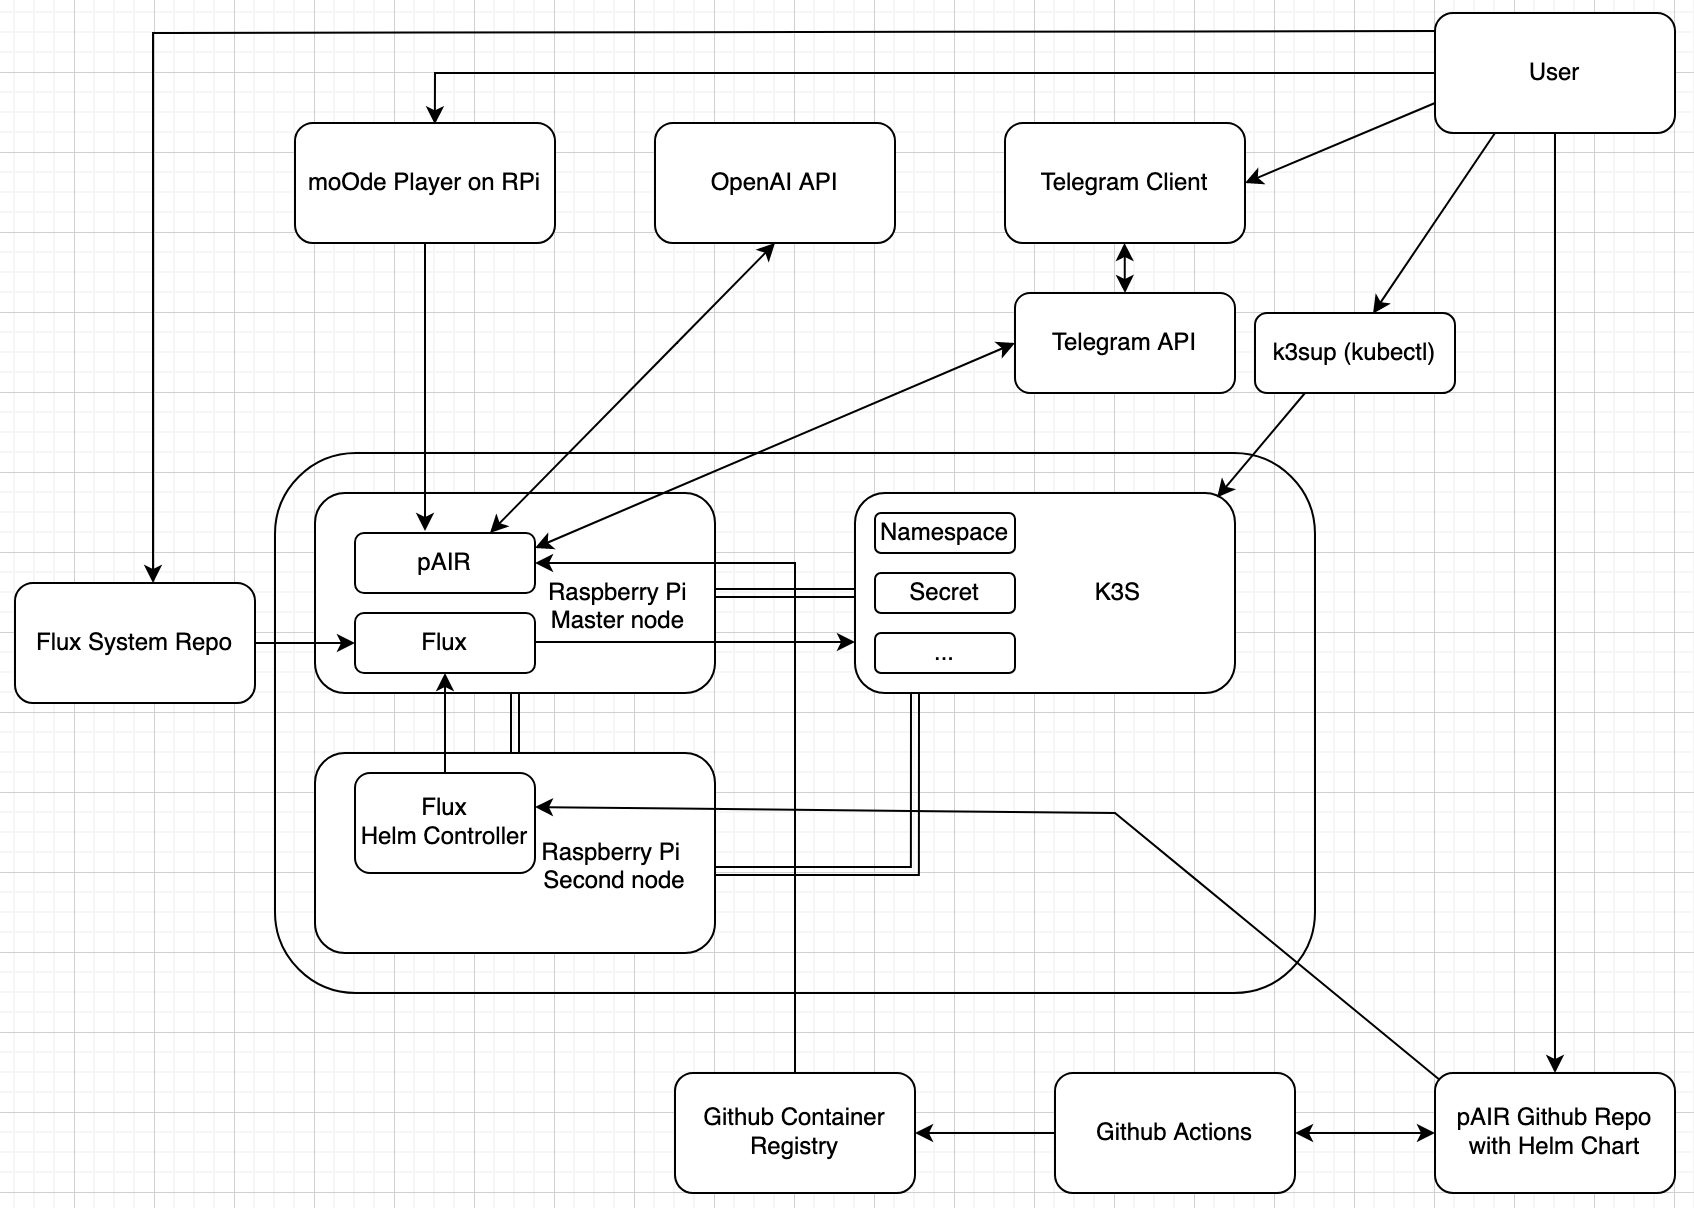
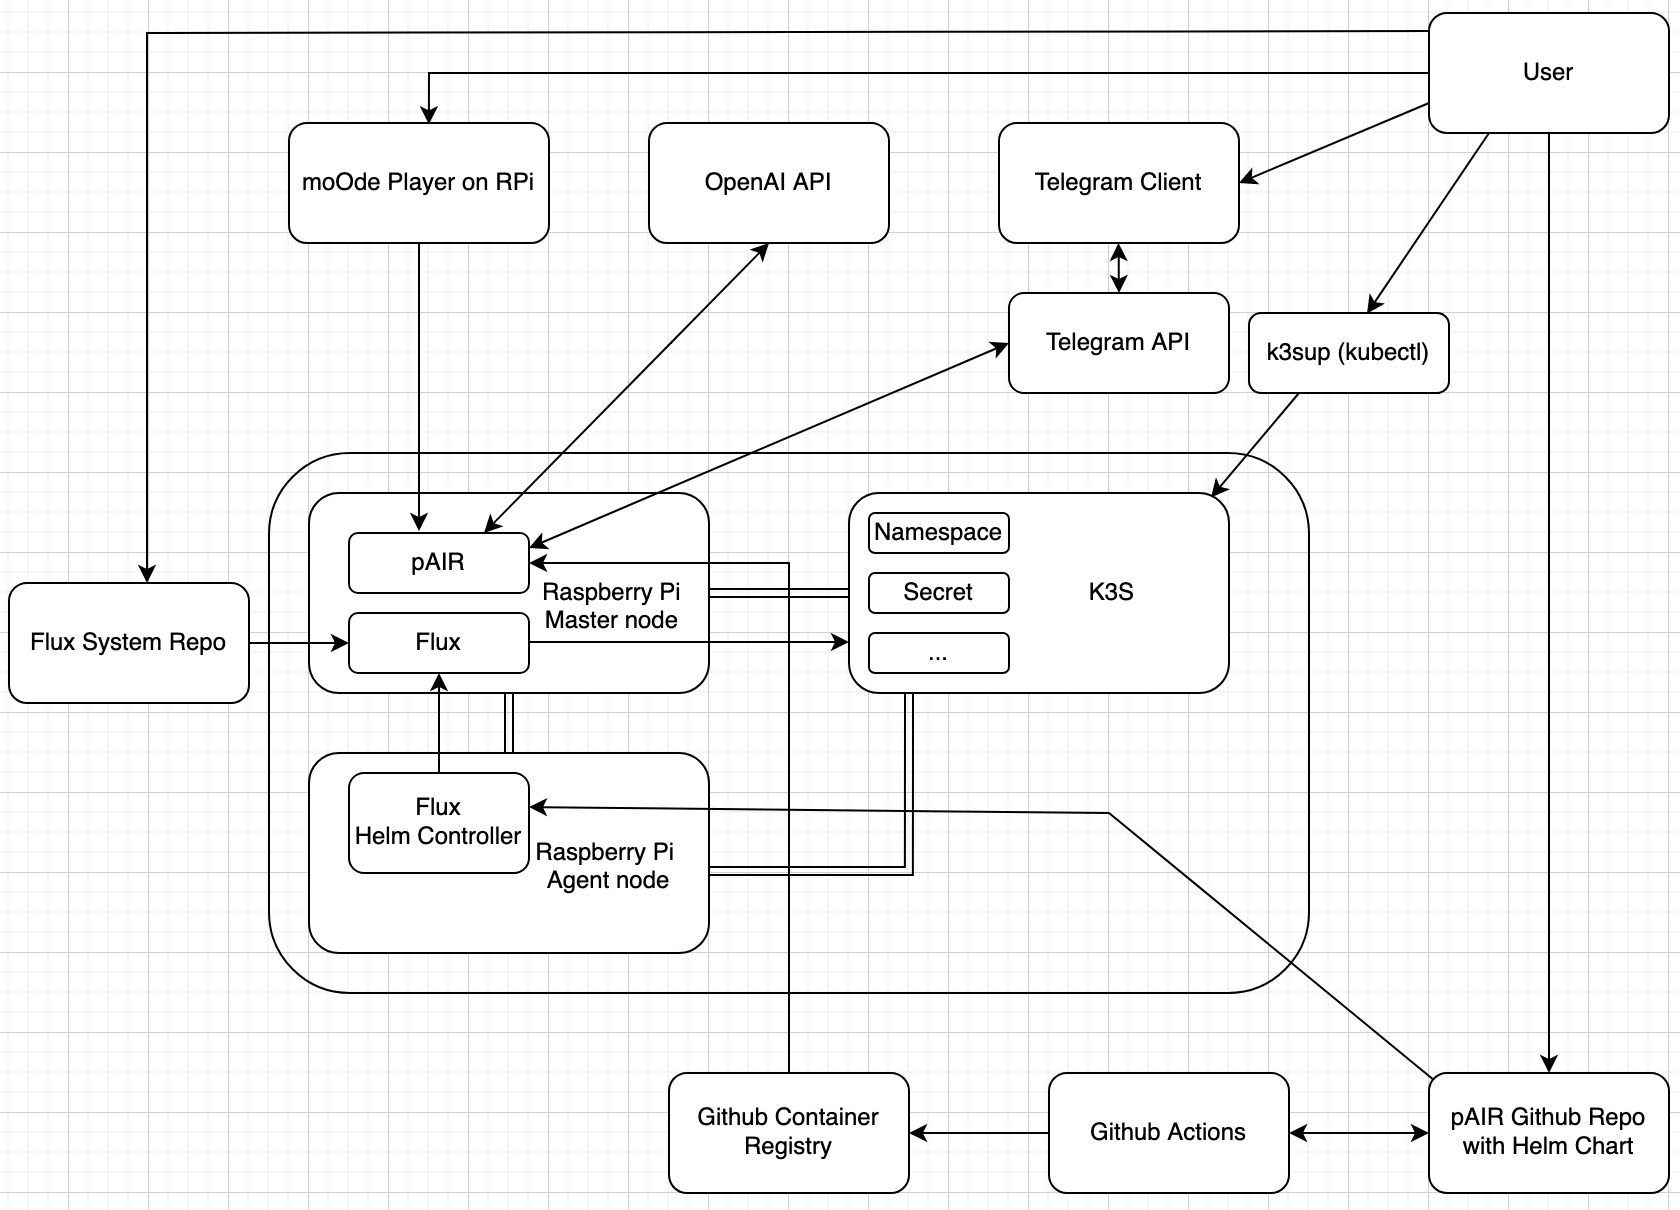
update readme

diff --git a/README.md b/README.md
@@ -1,6 +1,6 @@
 # personal AI Radio
 
-<img src="./docs/pAIR_img_01.png" width="75%" alt="pAIR">
+<img src="./docs/pair_img_01.png" width="75%" alt="pAIR">
 
 
 ## Contents
@@ -71,7 +71,7 @@ The author's know-how is the integration of the selected Telegram bot with the p
 
 This is the list of hardware I used to implement the project in my home lab:
 - Raspberry Pi 4 Model B 4GB RAM (master node)
-- Raspberry Pi 3 Model B+ 1GB RAM (secondary node)
+- Raspberry Pi 3 Model B+ 1GB RAM (agent node)
 - Raspberry Pi 3 Model A+ 512MB RAM with PCM5122 DAC HAT (moOde audio player)
 
 ## Installation
@@ -130,7 +130,7 @@ export KUBECONFIG=`pwd`/kubeconfig
 kubectl get node -o wide
 ```
 - Now you have kubectl access from your laptop to your Raspberry Pi running k3s
-- Join ther second node: 
+- Join the agent node: 
 ```sh
 k3sup join --ip $IP --server-ip $SERVER_IP --user pi
 ```
